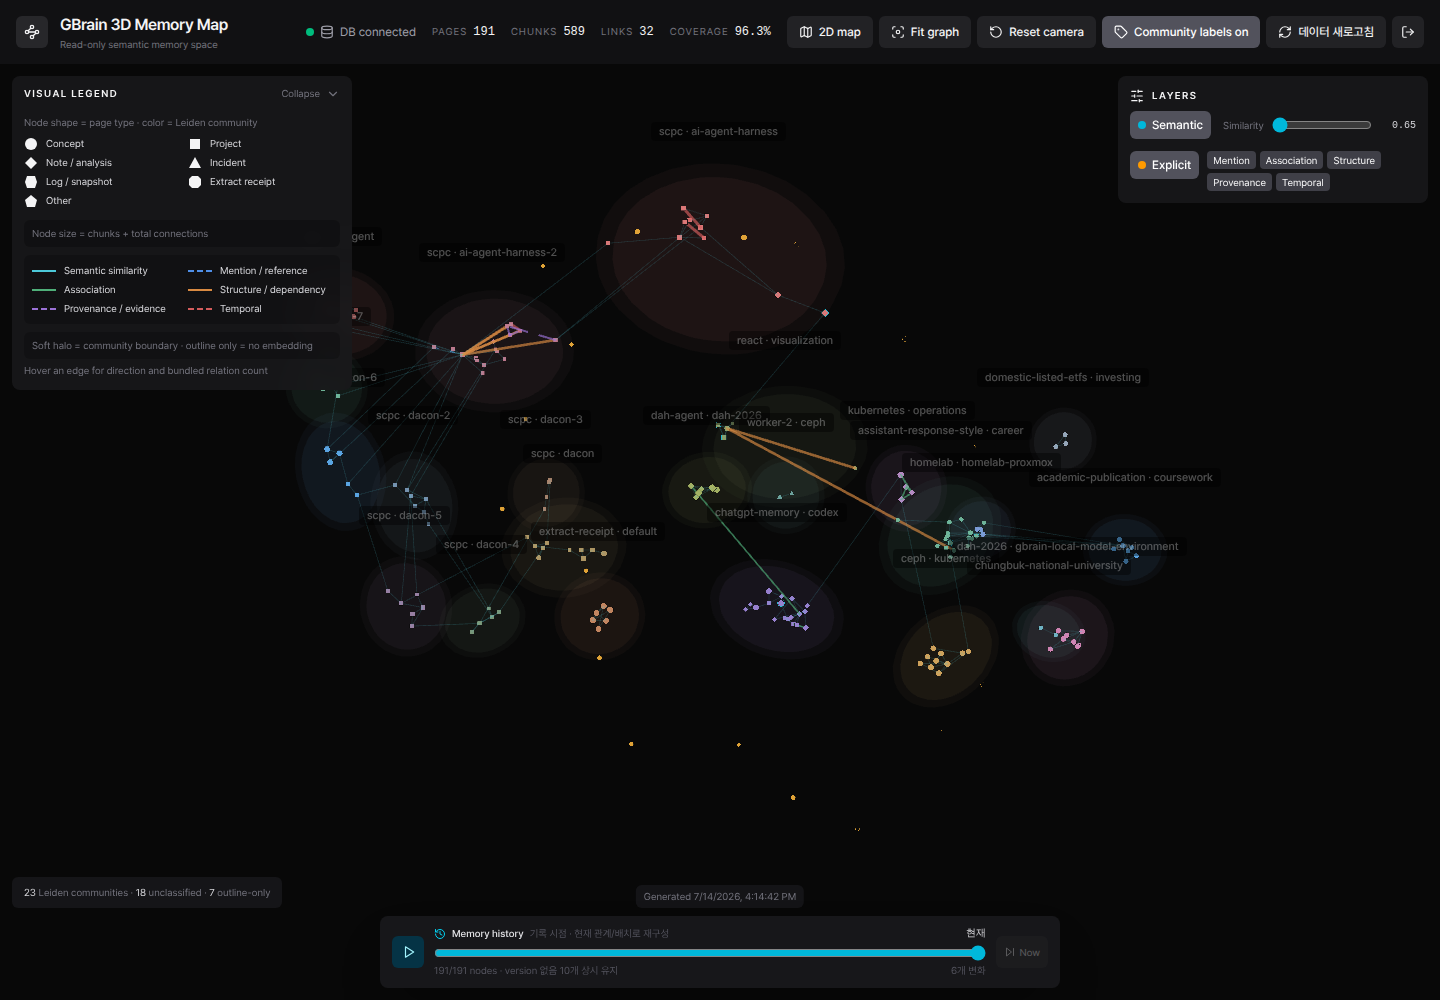
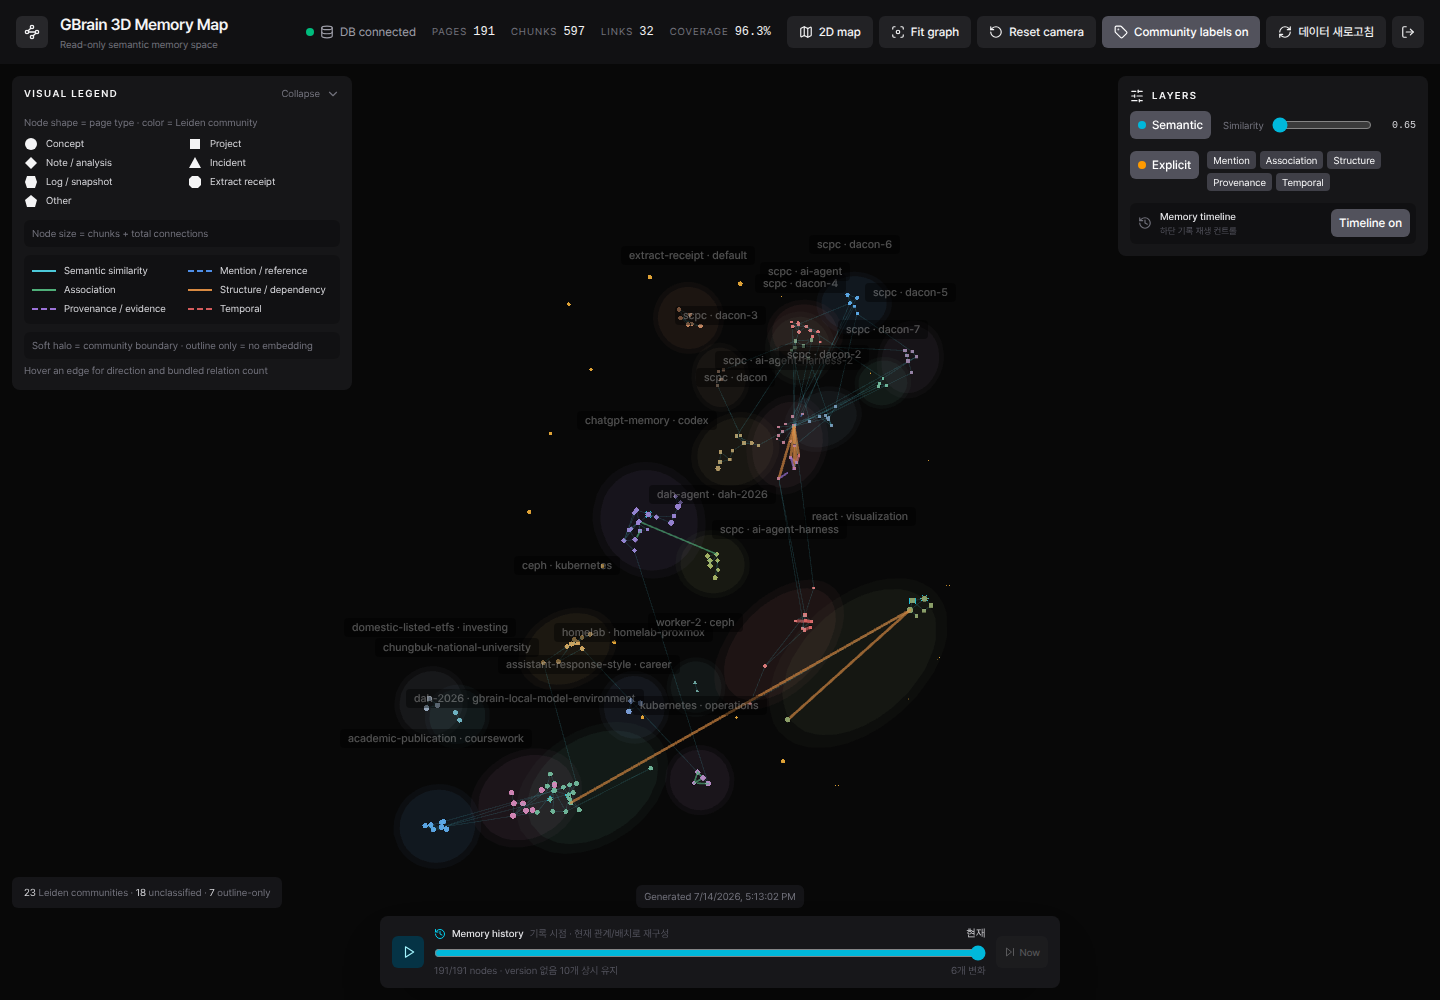
feat: add timeline toggle and 2d camera pan

diff --git a/tests/interaction.test.ts b/tests/interaction.test.ts
@@ -1,6 +1,8 @@
 import { describe, expect, test } from "bun:test";
 import { cameraPoseForNodes } from "../src/graph/camera";
+import { configureNavigationControls } from "../src/graph/navigation-controls";
 import { isSelectionClearKey } from "../src/graph/selection";
+import { MOUSE } from "three";
 
 describe("focus mode helpers", () => {
   test("frames the selected neighborhood in both dimensions", () => {
@@ -17,5 +19,38 @@ describe("focus mode helpers", () => {
   test("clears selection only for Escape", () => {
     expect(isSelectionClearKey("Escape")).toBe(true);
     expect(isSelectionClearKey("Enter")).toBe(false);
+  });
+});
+
+describe("map navigation controls", () => {
+  test("maps left drag to pan in 2D and restores rotation in 3D", () => {
+    const controls = {
+      noRotate: false,
+      noPan: true,
+      enableRotate: true,
+      enablePan: false,
+      staticMoving: false,
+      panSpeed: 0.3,
+      mouseButtons: { LEFT: MOUSE.ROTATE, MIDDLE: MOUSE.DOLLY, RIGHT: MOUSE.PAN },
+      updates: 0,
+      update() { this.updates += 1; },
+    };
+
+    configureNavigationControls(controls, "2d");
+    expect(controls.noRotate).toBe(true);
+    expect(controls.noPan).toBe(false);
+    expect(controls.enableRotate).toBe(false);
+    expect(controls.enablePan).toBe(true);
+    expect(controls.staticMoving).toBe(true);
+    expect(controls.panSpeed).toBe(0.2);
+    expect(controls.mouseButtons.LEFT).toBe(MOUSE.PAN);
+
+    configureNavigationControls(controls, "3d");
+    expect(controls.noRotate).toBe(false);
+    expect(controls.enableRotate).toBe(true);
+    expect(controls.staticMoving).toBe(false);
+    expect(controls.panSpeed).toBe(0.3);
+    expect(controls.mouseButtons.LEFT).toBe(MOUSE.ROTATE);
+    expect(controls.updates).toBe(2);
   });
 });

diff --git a/src/graph/navigation-controls.ts b/src/graph/navigation-controls.ts
@@ -1,0 +1,26 @@
+import { MOUSE } from "three";
+import type { MapViewMode } from "./layout-2d";
+
+interface NavigationControls {
+  noRotate?: boolean;
+  noPan?: boolean;
+  enableRotate?: boolean;
+  enablePan?: boolean;
+  staticMoving?: boolean;
+  panSpeed?: number;
+  mouseButtons?: { LEFT: number; MIDDLE?: number; RIGHT?: number };
+  update?: () => void;
+}
+
+export function configureNavigationControls(controls: NavigationControls | null | undefined, viewMode: MapViewMode) {
+  if (!controls) return;
+  const flat = viewMode === "2d";
+  controls.noRotate = flat;
+  controls.noPan = false;
+  if ("enableRotate" in controls) controls.enableRotate = !flat;
+  if ("enablePan" in controls) controls.enablePan = true;
+  controls.staticMoving = flat;
+  controls.panSpeed = flat ? 0.2 : 0.3;
+  if (controls.mouseButtons) controls.mouseButtons.LEFT = flat ? MOUSE.PAN : MOUSE.ROTATE;
+  controls.update?.();
+}

diff --git a/e2e/visual.spec.ts b/e2e/visual.spec.ts
@@ -126,6 +126,7 @@ test("captures and validates the requested viewports", async ({ browser }) => {
   await page.waitForTimeout(1500);
   const memoryGraph = page.getByTestId("memory-graph");
   const viewModeToggle = page.getByTestId("view-mode-toggle");
+  const timelineToggle = page.getByTestId("timeline-toggle");
   const timeline = page.getByTestId("graph-timeline");
   const timelineSlider = page.getByTestId("graph-timeline-slider");
   const currentFrameIndex = Number(await timeline.getAttribute("data-frame-index"));
@@ -135,6 +136,17 @@ test("captures and validates the requested viewports", async ({ browser }) => {
   expect(timelineFrameCount).toBeGreaterThan(1);
   expect(currentFrameIndex).toBe(timelineFrameCount - 1);
   expect(staticNodeCount).toBeGreaterThan(0);
+  await expect(timelineToggle).toHaveAttribute("aria-pressed", "true");
+  await timelineToggle.click();
+  await expect(timelineToggle).toHaveAttribute("aria-pressed", "false");
+  await expect(timeline).toHaveCount(0);
+  await expect(memoryGraph).toHaveAttribute("data-history-changed-count", "0");
+  await expect.poll(() => page.evaluate(() => JSON.parse(localStorage.getItem("gbrain-memory-map:explorer-state:v2") ?? "null")?.timelineOn)).toBe(false);
+  await page.screenshot({ path: "screenshots/gbrain-memory-map-timeline-off.png" });
+  await timelineToggle.click();
+  await expect(timelineToggle).toHaveAttribute("aria-pressed", "true");
+  await expect(timeline).toBeVisible();
+  await expect.poll(() => page.evaluate(() => JSON.parse(localStorage.getItem("gbrain-memory-map:explorer-state:v2") ?? "null")?.timelineOn)).toBe(true);
   await timelineSlider.fill("0");
   await expect(timeline).toHaveAttribute("data-frame-index", "0");
   await expect.poll(async () => Number(await timeline.getAttribute("data-visible-node-count"))).toBeGreaterThanOrEqual(staticNodeCount);
@@ -298,6 +310,18 @@ test("captures and validates the requested viewports", async ({ browser }) => {
   const cameraDistance = (left: { x: number; y: number; z: number }, right: { x: number; y: number; z: number }) =>
     Math.hypot(left.x - right.x, left.y - right.y, left.z - right.z);
   const overviewCamera = await cameraPosition();
+  await expect(memoryGraph).toHaveAttribute("data-left-drag-action", "pan");
+  await page.mouse.move(620, 430);
+  await page.mouse.down();
+  await page.mouse.move(760, 500, { steps: 10 });
+  await page.mouse.up();
+  await expect.poll(async () => cameraDistance(await cameraPosition(), overviewCamera), { timeout: 2_000 }).toBeGreaterThan(1);
+  const pannedCamera = await cameraPosition();
+  expect(Math.hypot(pannedCamera.x - overviewCamera.x, pannedCamera.y - overviewCamera.y)).toBeGreaterThan(1);
+  expect(Math.abs(pannedCamera.z - overviewCamera.z)).toBeLessThan(1);
+  await page.screenshot({ path: "screenshots/gbrain-memory-map-2d-panned.png" });
+  await page.getByRole("button", { name: "Fit graph" }).click();
+  await expect.poll(async () => cameraDistance(await cameraPosition(), overviewCamera), { timeout: 2_000 }).toBeLessThan(0.75);
   const labelsInsideViewport = await page.locator("[data-group-label]").evaluateAll((elements) => elements.filter((element) => {
     const bounds = element.getBoundingClientRect();
     const style = getComputedStyle(element);

diff --git a/src/App.tsx b/src/App.tsx
@@ -37,8 +37,8 @@ export default function App() {
   const [refreshing, setRefreshing] = useState(false);
   const [focusedCommunityId, setFocusedCommunityId] = useState<string | null>(null);
   const { state, patchState } = useGraphExplorerState(graph);
-  const { selectedId, viewMode, communityLabelsOn, semanticOn, explicitOn, semanticThreshold, explicitFamilies } = state;
-  const history = useGraphTimeline(timeline);
+  const { selectedId, viewMode, timelineOn, communityLabelsOn, semanticOn, explicitOn, semanticThreshold, explicitFamilies } = state;
+  const history = useGraphTimeline(timelineOn ? timeline : null);
 
   const load = useCallback(async () => {
     setError(null);
@@ -81,9 +81,9 @@ export default function App() {
     } catch (reason) { setError(reason instanceof Error ? reason.message : "새로고침에 실패했습니다."); }
     finally { setRefreshing(false); }
   };
-  const timelineProjection = useMemo(() => graph && timeline && history.frame
+  const timelineProjection = useMemo(() => timelineOn && graph && timeline && history.frame
     ? projectGraphAtFrame(graph, timeline, history.frame)
-    : null, [graph, history.frame, timeline]);
+    : null, [graph, history.frame, timeline, timelineOn]);
   const displayedGraph = timelineProjection?.graph ?? graph;
   const counts = displayedGraph?.counts ?? status?.counts;
   const layers = useMemo(() => ({ semanticOn, explicitOn, minSemanticSimilarity: semanticThreshold, explicitFamilies }), [explicitFamilies, explicitOn, semanticOn, semanticThreshold]);
@@ -100,6 +100,8 @@ export default function App() {
     : [], [focusedCommunityId, displayedGraph]);
   const dbState = loading ? "connecting" : error || status?.connected === false ? "failed" : status?.connected ? "connected" : "connecting";
   const generatedAt = graph?.generatedAt ?? status?.lastBuiltAt;
+  const timelineVisible = Boolean(timelineOn && timeline && history.frame);
+  const overlayBottomClass = timelineVisible ? "bottom-[92px]" : "bottom-3";
   const selectNode = useCallback((id: string | null) => {
     if (id) setFocusedCommunityId(null);
     patchState({ selectedId: id });
@@ -133,10 +135,12 @@ export default function App() {
         {loading && <div className="absolute inset-0 z-30 grid place-items-center bg-[#080808]"><div className="flex items-center gap-3 text-sm text-zinc-400"><RefreshCw className="size-4 animate-spin" />UMAP · Leiden graph를 생성하는 중…</div></div>}
         {error && <div className="absolute left-1/2 top-5 z-40 -translate-x-1/2 rounded-md bg-red-950 px-4 py-2 text-xs text-red-200">{error}</div>}
         {graph && displayedGraph && <><MemoryGraph ref={controls} graph={displayedGraph} viewMode={viewMode} labelsOn={communityLabelsOn} layers={layers} selectedId={effectiveSelectedId} changedNodeIds={timelineProjection?.changedNodeIds} onSelect={selectNode} onCommunityFocus={setFocusedCommunityId} /><Legend />
-          <div className="pointer-events-none absolute bottom-[92px] right-3 top-3 z-30 flex w-[min(310px,calc(100vw-24px))] flex-col gap-2">
+          <div className={`pointer-events-none absolute right-3 top-3 z-30 flex w-[min(310px,calc(100vw-24px))] flex-col gap-2 ${overlayBottomClass}`}>
             <LayerControls
+              timelineOn={timelineOn}
               semanticOn={semanticOn} explicitOn={explicitOn} threshold={semanticThreshold} minimumThreshold={displayedGraph.communityDetection.minSemanticSimilarity}
               explicitFamilies={explicitFamilies}
+              onTimelineOnChange={(value) => patchState({ timelineOn: value })}
               onSemanticOnChange={(value) => patchState({ semanticOn: value })}
               onExplicitOnChange={(value) => patchState({ explicitOn: value })}
               onThresholdChange={(value) => patchState({ semanticThreshold: Math.max(-1, Math.min(1, value)) })}
@@ -146,11 +150,11 @@ export default function App() {
               ? <NodeContextPanel node={selectedNode} detailState={nodeDetailState} relatedNodes={selectedRelatedNodes} onSelectNode={selectNode} onClose={() => selectNode(null)} />
               : focusedCommunity && <CommunityNodeList group={focusedCommunity} nodes={focusedCommunityNodes} onSelectNode={selectNode} />}
           </div>
-          <div className="pointer-events-none absolute bottom-[92px] left-3 z-10 rounded-md bg-zinc-900/85 px-3 py-2 text-[10px] text-zinc-500">
+          <div className={`pointer-events-none absolute left-3 z-10 rounded-md bg-zinc-900/85 px-3 py-2 text-[10px] text-zinc-500 ${overlayBottomClass}`}>
             <span className="text-zinc-300">{displayedGraph.communityDetection.communityCount}</span> Leiden communities · <span className="text-zinc-300">{displayedGraph.counts.unclassifiedPages}</span> unclassified · <span className="text-zinc-300">{displayedGraph.counts.unembeddedPages}</span> outline-only
           </div>
-          {generatedAt && <div data-testid="generated-at" className="pointer-events-none absolute bottom-[92px] left-1/2 z-20 hidden -translate-x-1/2 rounded-md bg-zinc-900/80 px-2 py-1 text-[10px] text-zinc-500 md:block">Generated {new Date(generatedAt).toLocaleString()}</div>}
-          {timeline && history.frame && <GraphTimelineControls
+          {generatedAt && <div data-testid="generated-at" className={`pointer-events-none absolute left-1/2 z-20 hidden -translate-x-1/2 rounded-md bg-zinc-900/80 px-2 py-1 text-[10px] text-zinc-500 md:block ${overlayBottomClass}`}>Generated {new Date(generatedAt).toLocaleString()}</div>}
+          {timelineVisible && timeline && history.frame && <GraphTimelineControls
             frames={history.frames}
             frame={history.frame}
             frameIndex={history.frameIndex}
@@ -163,7 +167,7 @@ export default function App() {
             onTogglePlayback={history.togglePlayback}
             onReturnToNow={history.returnToNow}
           />}
-          {timelineError && <div data-testid="graph-timeline-error" className="pointer-events-none absolute bottom-3 left-1/2 z-40 -translate-x-1/2 rounded-lg bg-amber-950/90 px-3 py-2 text-[10px] text-amber-200">Memory history unavailable · current graph remains available</div>}
+          {timelineOn && timelineError && <div data-testid="graph-timeline-error" className="pointer-events-none absolute bottom-3 left-1/2 z-40 -translate-x-1/2 rounded-lg bg-amber-950/90 px-3 py-2 text-[10px] text-amber-200">Memory history unavailable · current graph remains available</div>}
         </>}
       </section>
     </main>

diff --git a/src/components/LayerControls.tsx b/src/components/LayerControls.tsx
@@ -1,14 +1,16 @@
-import { SlidersHorizontal } from "lucide-react";
+import { History, SlidersHorizontal } from "lucide-react";
 import type { RelationFamily } from "../api/types";
 import { EXPLICIT_RELATION_FAMILIES, RELATION_VISUALS } from "../graph/visual-spec";
 import { Button } from "./ui/button";
 
 interface Props {
+  timelineOn: boolean;
   semanticOn: boolean;
   explicitOn: boolean;
   threshold: number;
   minimumThreshold: number;
   explicitFamilies: RelationFamily[];
+  onTimelineOnChange: (value: boolean) => void;
   onSemanticOnChange: (value: boolean) => void;
   onExplicitOnChange: (value: boolean) => void;
   onThresholdChange: (value: number) => void;
@@ -43,6 +45,10 @@ export function LayerControls(props: Props) {
           onClick={() => toggleFamily(family)}
         >{RELATION_VISUALS[family].label.split(" /")[0]}</button>)}
       </div>
+    </div>
+    <div className="mt-3 flex items-center justify-between gap-3 rounded-md bg-black/25 p-1.5 pl-2">
+      <div className="flex min-w-0 items-center gap-2"><History className="size-3.5 shrink-0 text-zinc-500" /><div className="min-w-0"><div className="font-medium text-zinc-200">Memory timeline</div><div className="truncate text-[9px] text-zinc-600">하단 기록 재생 컨트롤</div></div></div>
+      <Button data-testid="timeline-toggle" className="h-7 shrink-0 px-2" variant={props.timelineOn ? "active" : "default"} aria-pressed={props.timelineOn} onClick={() => props.onTimelineOnChange(!props.timelineOn)}>Timeline {props.timelineOn ? "on" : "off"}</Button>
     </div>
   </aside>;
 }

diff --git a/src/graph/MemoryGraph.tsx b/src/graph/MemoryGraph.tsx
@@ -8,6 +8,7 @@ import { cameraPoseForNodes } from "./camera";
 import { activeGraphEdges, bundleGraphEdges, connectedNodeIdsForGroup, endpointId, neighborIdsForNode, type GraphLayerSettings, type RenderEdge } from "./graph-layers";
 import { createCommunityHaloMeshes, disposeHaloRoot, haloTransformForNodes, nodesInCommunityHalo } from "./halo";
 import { createMap2DLayout, easeInOutCubic, type MapViewMode } from "./layout-2d";
+import { configureNavigationControls } from "./navigation-controls";
 import { createMorphHaloBatch, type MorphHaloBatch } from "./morph-halo-batch";
 import { createMorphNodeBatch, type MorphNodeBatch } from "./morph-node-batch";
 import { createEdgeObject, createNodeObject, edgeSegmentPositions, updateEdgeObject } from "./rendering";
@@ -689,10 +690,7 @@ export const MemoryGraph = forwardRef<GraphControls, Props>(function MemoryGraph
       ? { x: 0, y: 0, z: Math.max(220, map2DLayout.extent * 2.5) }
       : { x: 210, y: 155, z: 245 };
     viewModeRef.current = viewMode;
-    if (controls) {
-      controls.noRotate = viewMode === "2d";
-      if ("enableRotate" in controls) controls.enableRotate = viewMode !== "2d";
-    }
+    configureNavigationControls(controls, viewMode);
     if (container) {
       container.dataset.viewTransitioning = duration ? "true" : "false";
       container.dataset.morphProgress = "0";
@@ -840,6 +838,7 @@ export const MemoryGraph = forwardRef<GraphControls, Props>(function MemoryGraph
       className="relative h-full min-h-0 w-full overflow-hidden"
       data-testid="memory-graph"
       data-view-mode={viewMode}
+      data-left-drag-action={viewMode === "2d" ? "pan" : "rotate"}
       data-view-transitioning="false"
       data-active-edge-count={activeEdges.length}
       data-active-neighbor-count={neighbors.size}

diff --git a/src/hooks/useGraphExplorerState.ts b/src/hooks/useGraphExplorerState.ts
@@ -8,6 +8,7 @@ const STORAGE_KEY = "gbrain-memory-map:explorer-state:v2";
 export interface GraphExplorerState {
   selectedId: string | null;
   viewMode: "2d" | "3d";
+  timelineOn: boolean;
   communityLabelsOn: boolean;
   semanticOn: boolean;
   explicitOn: boolean;
@@ -18,6 +19,7 @@ export interface GraphExplorerState {
 const defaults: GraphExplorerState = {
   selectedId: null,
   viewMode: "3d",
+  timelineOn: true,
   communityLabelsOn: true,
   semanticOn: true,
   explicitOn: true,
@@ -39,6 +41,7 @@ function loadState(): GraphExplorerState {
       ...value,
       selectedId: typeof value.selectedId === "string" ? value.selectedId : null,
       viewMode: value.viewMode === "2d" ? "2d" : "3d",
+      timelineOn: value.timelineOn !== false,
       semanticThreshold: Number.isFinite(threshold) ? Math.max(-1, Math.min(1, threshold)) : defaults.semanticThreshold,
       explicitFamilies: families,
     };